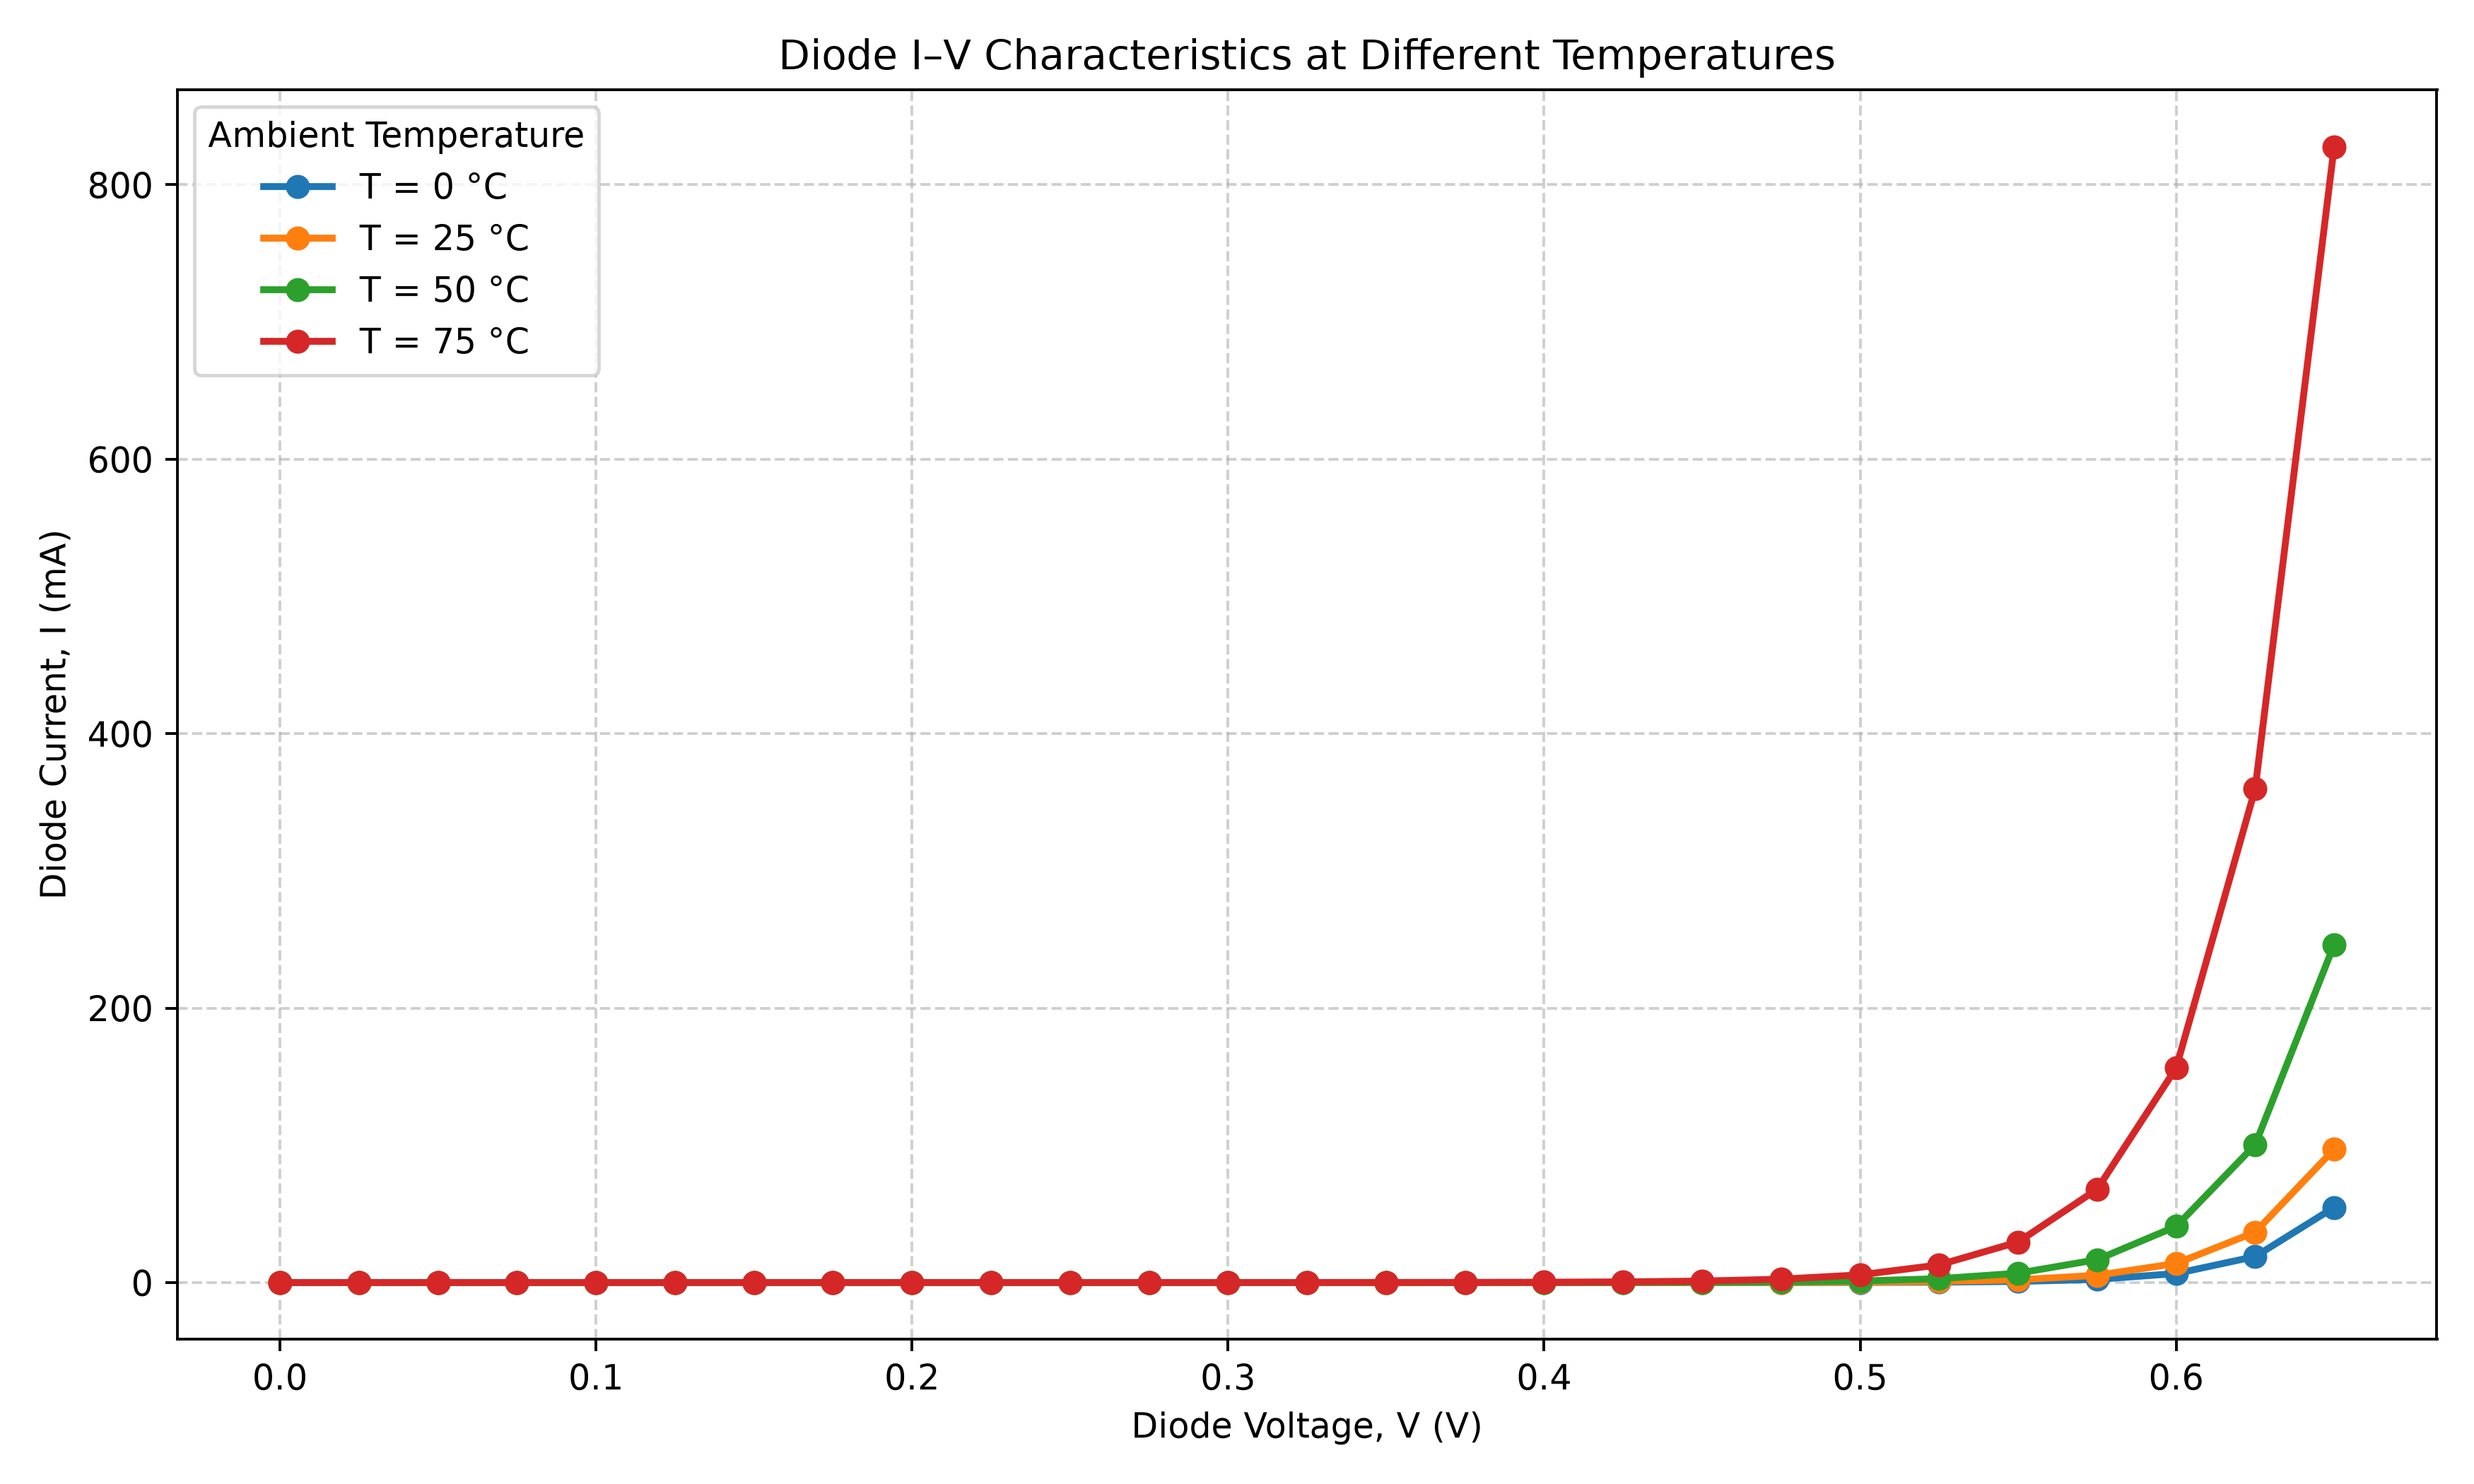
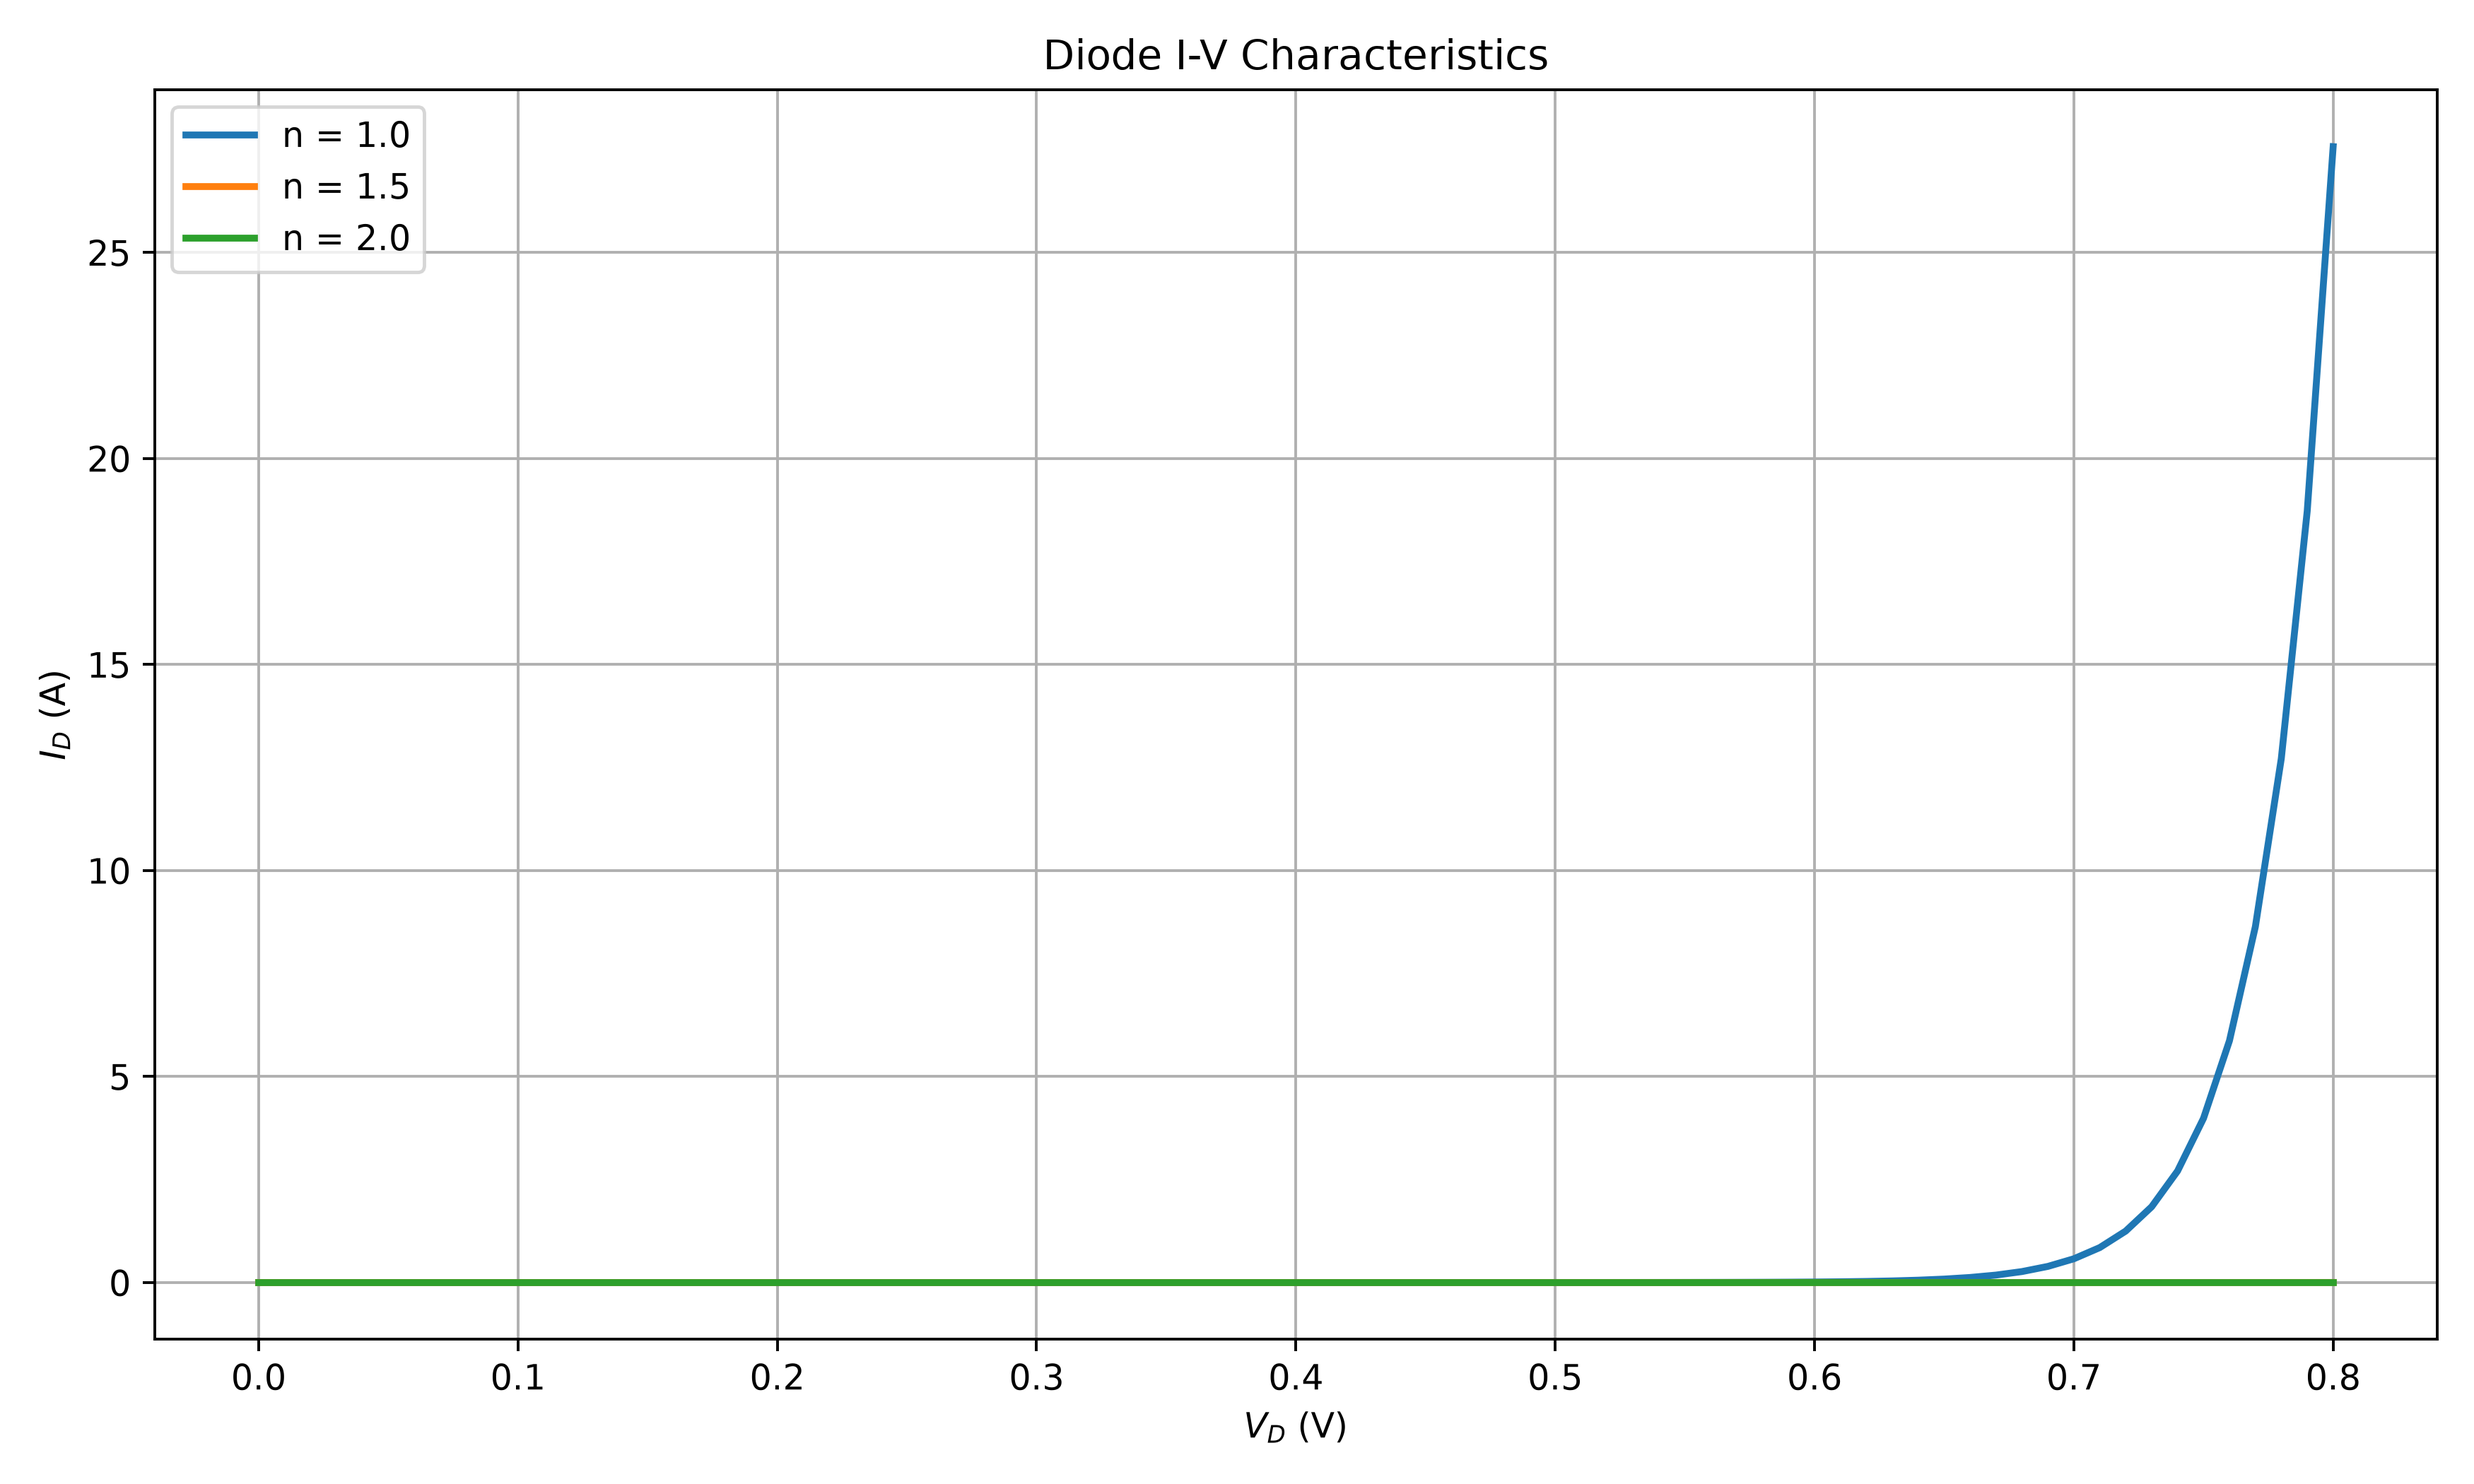
Added linear file, log file and also small signal conductance

diff --git a/diode_iv.py b/diode_iv.py
@@ -1,0 +1,80 @@
+import numpy as np
+import matplotlib.pyplot as plt
+
+# Given parameters
+Is = 1e-12
+Vt = 0.02585
+n_values = [1.0, 1.5, 2.0]
+
+# Diode voltage sweep
+Vd = np.arange(0, 0.81, 0.01)
+
+
+# --------------------------------------------------
+# 1. Normal I-V plot
+# --------------------------------------------------
+
+plt.figure(figsize=(10, 6))
+
+for n in n_values:
+
+    Id = Is * (np.exp(Vd / (n * Vt)) - 1)
+
+    plt.plot(Vd, Id, linewidth=2, label=f'n = {n}')
+
+plt.xlabel('$V_D$ (V)')
+plt.ylabel('$I_D$ (A)')
+plt.title('Diode I-V Characteristics')
+plt.legend()
+plt.grid(True)
+plt.tight_layout()
+plt.savefig('diode_iv.png', dpi=350)
+
+
+# --------------------------------------------------
+# 2. Logarithmic I-V plot
+# --------------------------------------------------
+
+plt.figure(figsize=(10, 6))
+
+for n in n_values:
+
+    Id = Is * (np.exp(Vd / (n * Vt)) - 1)
+
+    plt.plot(Vd, Id, linewidth=2, label=f'n = {n}')
+
+plt.yscale('log')
+plt.xlabel('$V_D$ (V)')
+plt.ylabel('$I_D$ (A)')
+plt.title('Diode I-V Characteristics - Log Scale')
+plt.legend()
+plt.grid(True)
+plt.tight_layout()
+plt.savefig('diode_iv_log.png', dpi=350)
+
+
+# --------------------------------------------------
+# 3. Small-signal conductance
+# --------------------------------------------------
+
+plt.figure(figsize=(10, 6))
+
+for n in n_values:
+
+    Id = Is * (np.exp(Vd / (n * Vt)) - 1)
+
+    gd = np.gradient(Id, Vd)
+
+    plt.plot(Vd, gd, linewidth=2, label=f'n = {n}')
+
+plt.yscale('log')
+plt.xlabel('$V_D$ (V)')
+plt.ylabel('$g_d$ (S)')
+plt.title('Diode Small-Signal Conductance')
+plt.legend()
+plt.grid(True)
+plt.tight_layout()
+plt.savefig('diode_gd.png', dpi=350)
+
+
+plt.show()

diff --git a/diode_characteristics.py b/diode_characteristics.py
@@ -27,6 +27,6 @@ plt.grid(True, linestyle="--", alpha=0.6)
 plt.tight_layout()
 
 # Save at the required resolution
-plt.savefig("diode_iv.png", dpi=350)
+plt.savefig("diode_iv_char.png", dpi=350)
 
 plt.show()

diff --git a/README.md b/README.md
@@ -118,7 +118,7 @@ The I_D versus V_GS plot also shows the expected increase in drain current after
 I-V graph was plotted for diode at different ambient temperatures 0,25,50 and 75. 
 Voltage V was plotted on X-axis and current I on Y-axis. 
 the plot was saved at 350pi
-![I-V_temp charactertistics ](diode_iv.png)
+![I-V_temp charactertistics ](diode_iv_char.png)
 
 # E12
 I-VDS characteristics curve was for VGS=1,2,3 for SPICE level 1 and 3 models
@@ -134,3 +134,42 @@ SPICE level 3 model characteristics differ slightly
 #### SPICE Level 3
 
 ![SPICE Level 3](E12_MOSFET_lvl_3_Model.png)
+
+# Bonus question
+# E13
+
+## Diode Characteristics
+
+The Shockley diode equation was used to generate synthetic diode $I_D$-$V_D$ data for three ideality factors:
+
+- $n = 1.0$
+- $n = 1.5$
+- $n = 2.0$
+
+The reverse saturation current was kept fixed at $I_S = 1 \times 10^{-12}$ A and the diode voltage was swept from 0 V to 0.8 V in steps of 0.01 V.
+
+### Observation
+
+The I_D-V_D characteristics show that the diode current increases exponentially with forward voltage. Increasing the ideality factor n results in a lower current for the same diode voltage.
+
+The logarithmic plot makes the large range of diode currents easier to observe compared with the linear plot.
+
+The small-signal diode conductance was calculated numerically using:
+
+g_d = dI_D/dV_D
+
+and plotted on a logarithmic y-axis for all three ideality factors.
+
+### Output
+
+#### Linear I-V Characteristics
+
+![Diode I-V Characteristics](diode_iv.png)
+
+#### Logarithmic I-V Characteristics
+
+![Diode I-V Characteristics - Log Scale](diode_iv_log.png)
+
+#### Small-Signal Conductance
+
+![Diode Small-Signal Conductance](diode_gd.png)
